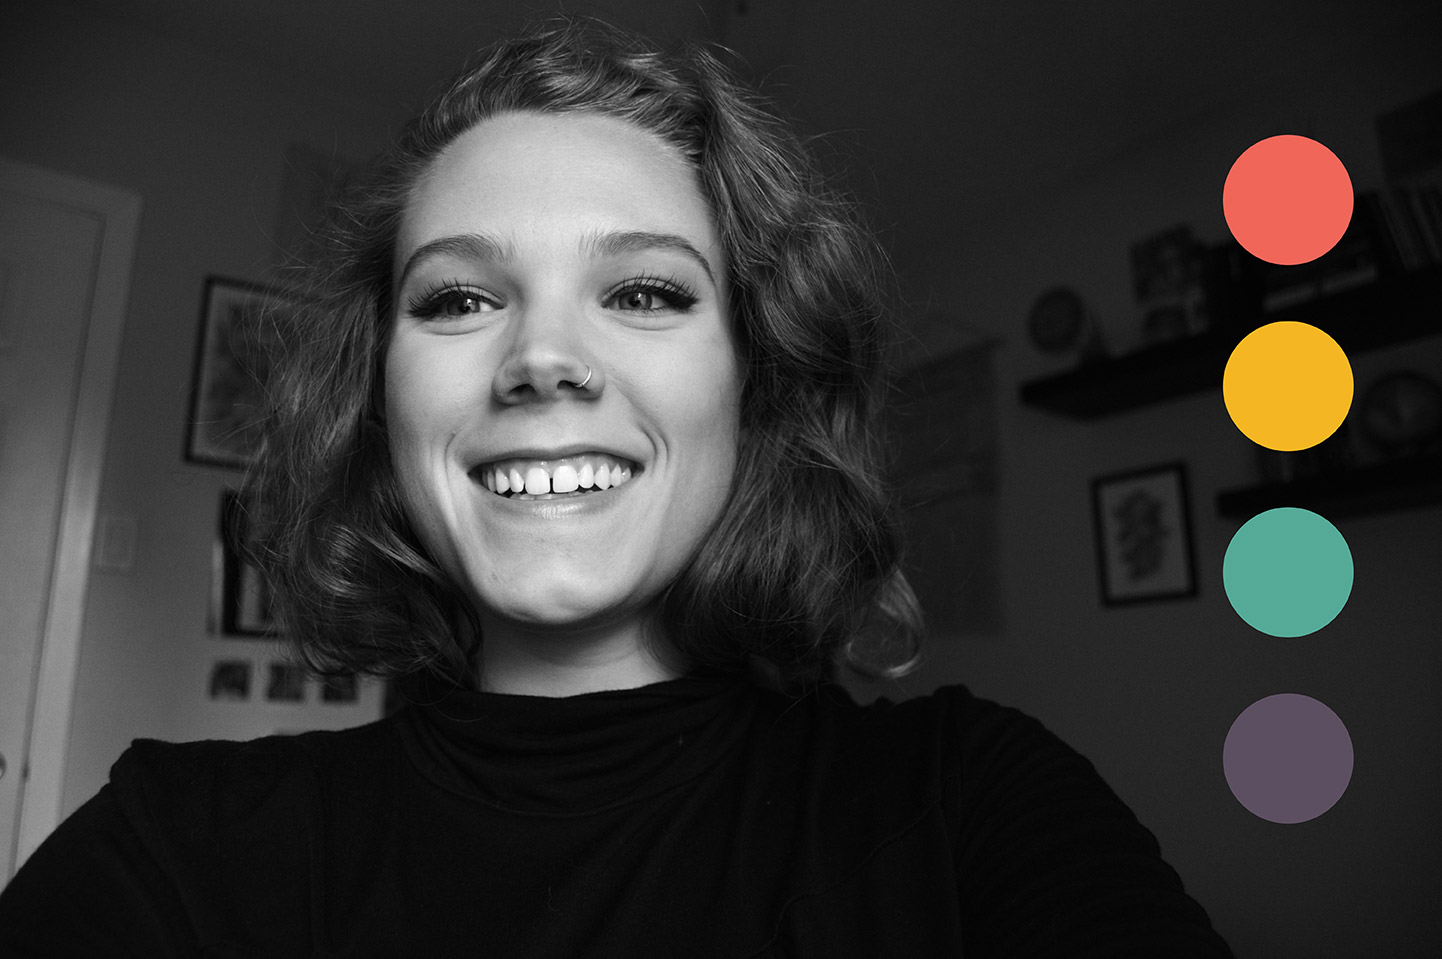
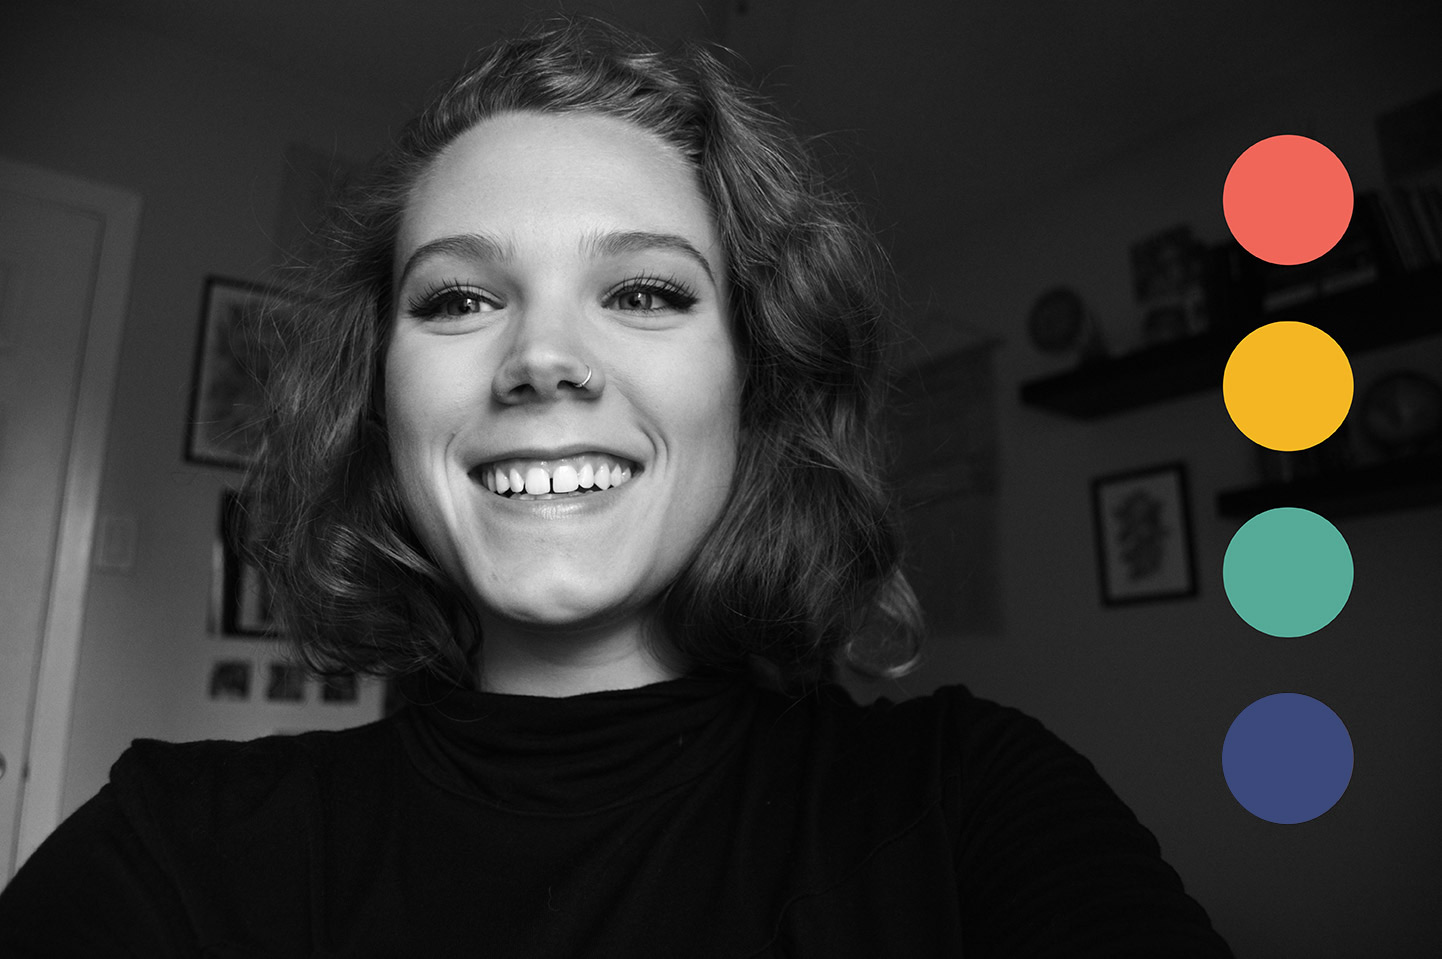
Add dots to footer
Former-commit-id: 584eb797b86cac08fe8044466ea5cd4cf7df5c1c

Changed region(s): [[0.8426, 0.7258, 0.9362, 0.877]]

diff --git a/_layouts/default.html b/_layouts/default.html
@@ -20,17 +20,19 @@
 
         <div class="logo peta unit xs-1-2 s-1-2 m-2-3 l-2-3">
           <h1 class="push-0 pad-t-0">
-            <i class="icon i-192"><img src="{{site.baseurl}}/images/logo.svg" alt="esther johnson logo"></i>
-            <span class="icon-label exa bold"></span>
+            <a href="{{site.baseurl}}/index">
+              <i class="icon i-192"><img src="{{site.baseurl}}/images/logo.svg" alt="esther johnson logo"></i>
+              <span class="icon-label exa bold"></span>
+            </a>
           </h1>
         </div>
 
         <div class="nav-btn pad-t push-0 giga unit xs-1-2 s-1-2 m-1-3 l-1-3">
           <nav role="navigation" id="nav" tabindex="0" class="header-nav list-group">
             <ul class="nav">
-              <li class="nav-link"><a class="header-nav-a list-group kilo bold" href="{{site.baseurl}}/index.html">work</a></li>
-              <li class="nav-link"><a class="header-nav-a list-group kilo bold" href="{{site.baseurl}}/about.html">about</a></li>
-              <li class="nav-link"><a class="header-nav-a list-group kilo bold" href="{{site.baseurl}}/extra.html">extra</a></li>
+              <li class="nav-link"><a class="header-nav-a list-group kilo bold" href="{{site.baseurl}}/index">work</a></li>
+              <li class="nav-link"><a class="header-nav-a list-group kilo bold" href="{{site.baseurl}}/about">about</a></li>
+              <li class="nav-link"><a class="header-nav-a list-group kilo bold" href="{{site.baseurl}}/extra">extra</a></li>
             </ul>
           </nav>
         </div>
@@ -47,15 +49,26 @@
   <div class="main wrapper island-1-2">
 
     <footer class="footer island-1-2 wrapper">
-      <p class="micro push-1-4"><strong>© esther johnson 2018 - 2019</strong><br>estherfjohnson@gmail.com<br> 613 408 1448</p>
+      <div class="grid">
 
-      <div class="insta">
-        <a href="https://www.instagram.com/estherjdesign/?hl=en">
-          <i class="icon i-32">
-            <img src="{{site.baseurl}}/images/instagram.svg" alt="">
-          </i>
-        </a>
+        <div class="unit s-1-3 m-1-2 l-3-4 lx-3-4">
+
+        </div>
+        <div class="unit s-2-3 m-1-2 l-1-4 lx-1-4">
+          <img class="img-flex pad-b-1-4" src="images/dots-horizontal.jpg" alt="">
+          <p class="micro push-1-4"><strong>© esther johnson 2018 - 2019</strong><br>estherfjohnson@gmail.com<br> 613 408 1448</p>
+
+          <div class="insta">
+            <a href="https://www.instagram.com/estherjdesign/?hl=en">
+              <i class="icon i-32">
+                <img src="{{site.baseurl}}/images/instagram.svg" alt="">
+              </i>
+            </a>
+          </div>
+        </div>
+
       </div>
+
 
     </footer>
 

diff --git a/second.html b/second.html
@@ -1,7 +1,7 @@
 ---
 layout: default
 ---
-<title>Esther Johnson · Packaging</title>
+<title>Esther Johnson · Sparkling Ice</title>
 
 <div class="process wrapper gutter-1-2">
   <img class="img-flex pad-t" src="{{site.baseurl}}/images/ice/3flavours.jpg" alt="">

diff --git a/css/main.css b/css/main.css
@@ -35,6 +35,11 @@ a {
   text-decoration: none;
   list-style-type: none;
   color: #000;
+  transition: all .3s ease;
+}
+
+a:hover {
+  opacity: .5;
 }
 
 .icon {
@@ -75,5 +80,4 @@ a {
 
 .icon:hover {
   opacity: .5;
-  transform: scale(1.05);
 }

diff --git a/first.html b/first.html
@@ -1,7 +1,7 @@
 ---
 layout: default
 ---
-  <title>Esther Johnson · Branding</title>
+  <title>Esther Johnson · Produce Depot</title>
 
     <div class="process grid pad-t wrapper ">
       <div class="unit xs-1 s-1 m-1 l-1 xl-1">

diff --git a/third.html b/third.html
@@ -1,7 +1,7 @@
 ---
 layout: default
 ---
-<title>Esther Johnson · Layout</title>
+<title>Esther Johnson · World Animal Protection</title>
 
 <div class="process wrapper gutter-1-2">
 
